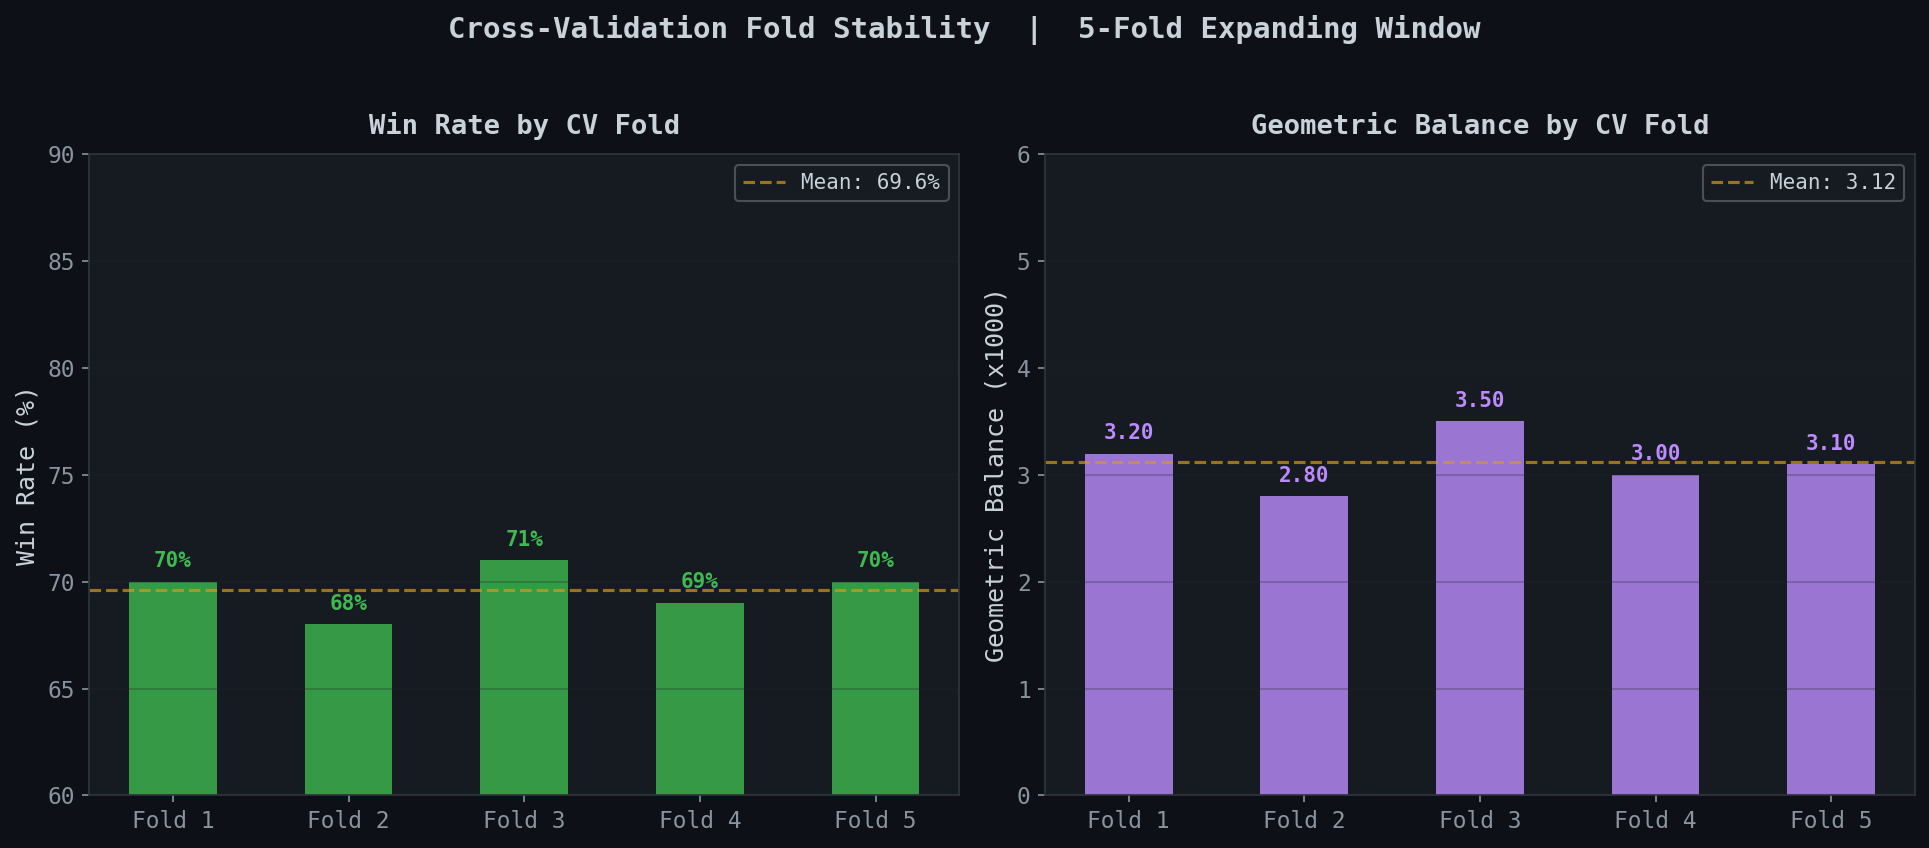
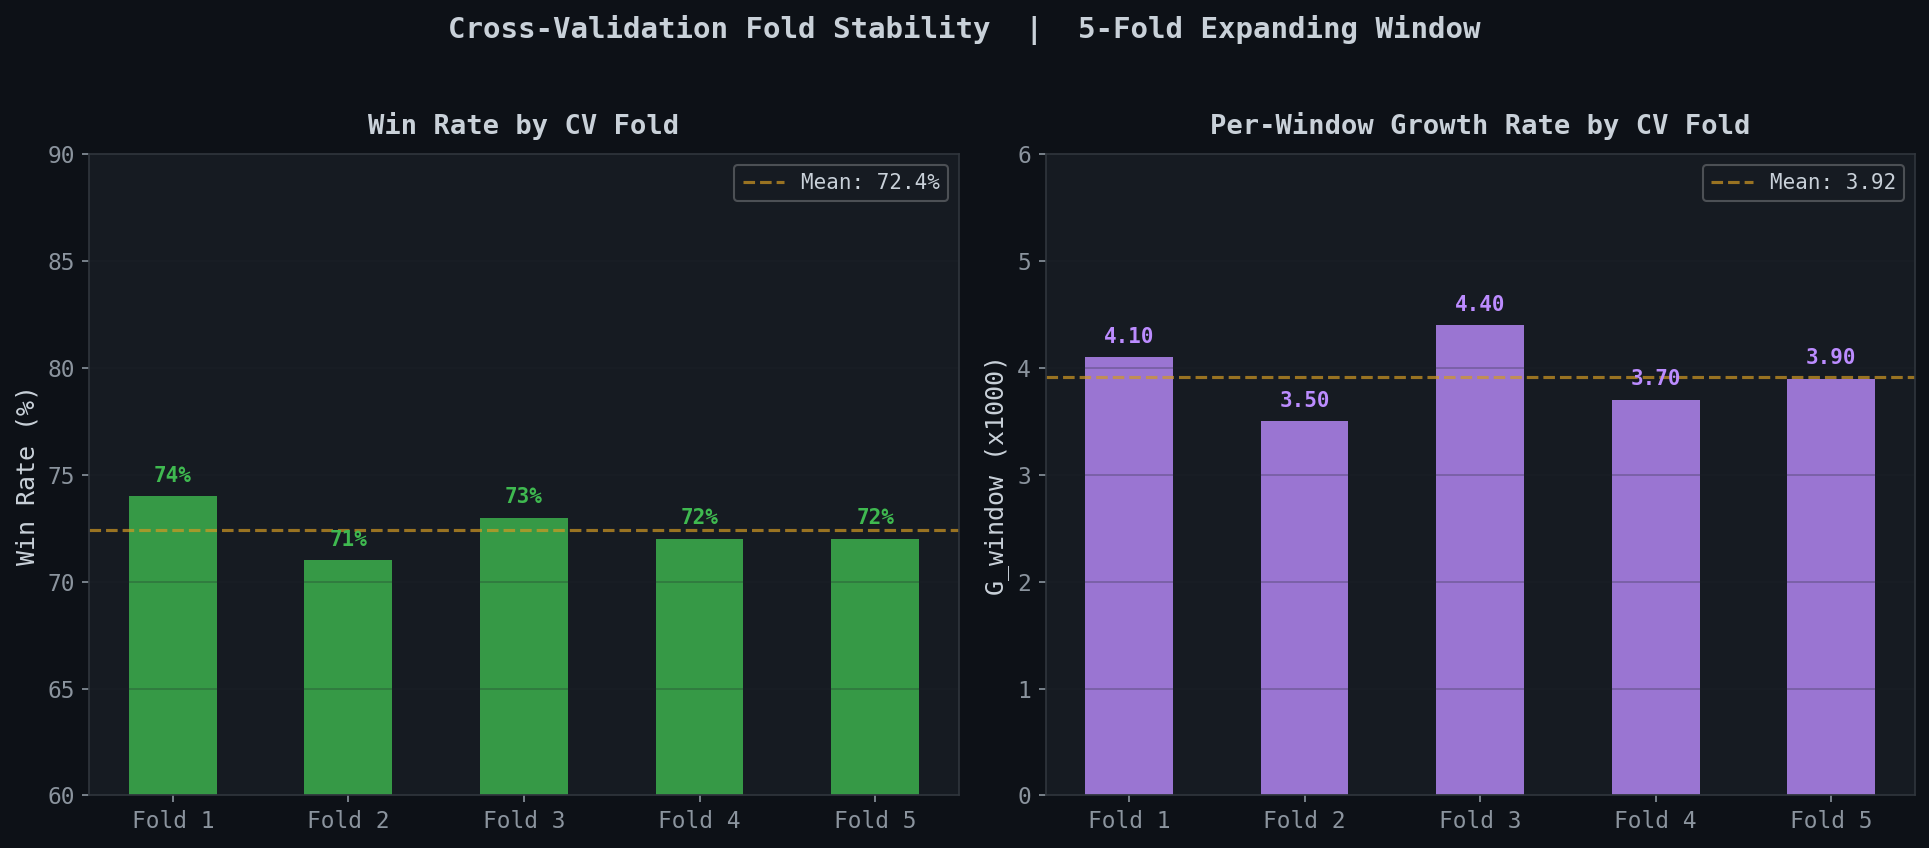
Fix narrative framing, optimization objective naming, and window counts
- Reframe strategy from momentum betting to microstructure signal
  detection (reversions, growing confidence, compression-expansion)
- Rename "Geometric Balance" to per-window growth rate objective:
  G_trade dominated G_window in practice, simplified to G_window only
- Fix ~600 market windows → ~5,000 in FEATURE_ENGINEERING and
  BACKTEST_RESULTS (updates parameter-to-sample ratio from 1:20 to 1:167)
- Rewrite GEOMETRIC_BALANCE.md: honest development path showing why
  geometric mean was abandoned, what production actually uses
- Regenerate all 6 figures with updated axis labels

diff --git a/scripts/generate_plots.py b/scripts/generate_plots.py
@@ -202,7 +202,7 @@ def plot_optimization_convergence():
     ax.axhline(y=0, color='#8b949e', linestyle='--', alpha=0.3, linewidth=0.8)
 
     ax.set_xlabel('Trial Number', fontsize=12)
-    ax.set_ylabel('Robust Score (geometric balance)', fontsize=12)
+    ax.set_ylabel('Robust Score (G_window)', fontsize=12)
     ax.set_title('Optuna Optimization Convergence  |  500 Trials  |  30 Parameters  |  5-Fold CV',
                  fontsize=13, fontweight='bold', pad=12)
     ax.legend(loc='lower right', fontsize=10, framealpha=0.3)
@@ -260,7 +260,7 @@ def plot_unified_score_distribution():
 
 def plot_cv_fold_stability():
     """
-    Bar chart of 5 CV fold metrics: win rate and geometric balance.
+    Bar chart of 5 CV fold metrics: win rate and G_window.
     Shows stable performance across folds.
     """
     folds = ['Fold 1', 'Fold 2', 'Fold 3', 'Fold 4', 'Fold 5']
@@ -286,14 +286,14 @@ def plot_cv_fold_stability():
                  f'{wr*100:.0f}%', ha='center', va='bottom', fontsize=10,
                  color=ACCENT_GREEN, fontweight='bold')
 
-    # Geometric balance
+    # G_window (per-window growth rate)
     bars2 = ax2.bar(folds, [g * 1000 for g in g_metrics], color=ACCENT_PURPLE,
                     alpha=0.8, width=0.5, edgecolor='none')
     ax2.axhline(y=np.mean(g_metrics) * 1000, color=ACCENT_ORANGE,
                 linestyle='--', linewidth=1.5, alpha=0.7,
                 label=f'Mean: {np.mean(g_metrics)*1000:.2f}')
-    ax2.set_ylabel('Geometric Balance (x1000)', fontsize=12)
-    ax2.set_title('Geometric Balance by CV Fold', fontsize=13, fontweight='bold', pad=10)
+    ax2.set_ylabel('G_window (x1000)', fontsize=12)
+    ax2.set_title('Per-Window Growth Rate by CV Fold', fontsize=13, fontweight='bold', pad=10)
     ax2.set_ylim(0, 6)
     ax2.legend(fontsize=10, framealpha=0.3)
     ax2.grid(True, axis='y', alpha=0.3)

diff --git a/docs/GEOMETRIC_BALANCE.md b/docs/GEOMETRIC_BALANCE.md
@@ -1,4 +1,4 @@
-# Geometric Balance Objective: Solving the Degenerate Optimization Problem
+# Optimization Objective: Solving the Degenerate Optimization Problem
 
 ## The Core Problem
 
@@ -28,49 +28,40 @@ objective = mean(returns) / std(returns)
 
 Sharpe ratio seems like it should balance frequency and quality, but in practice it's dominated by the denominator. The optimizer can inflate Sharpe by taking many similar, small, highly correlated trades. It can also game it by avoiding trades during volatile periods (when it should be trading with reduced size, not abstaining).
 
-## The Geometric Balance Solution
+## Development: From Geometric Balance to Per-Window Growth
 
-The geometric balance objective requires BOTH frequency AND quality by construction:
+The initial design computed two complementary metrics and took their geometric mean:
 
 ```
-G_window = total_log_return / n_windows    (per-window growth)
-G_trade  = total_log_return / n_trades     (per-trade growth)
+G_window = total_log_return / n_windows    (per-window growth -- rewards frequency)
+G_trade  = total_log_return / n_trades     (per-trade growth -- rewards quality)
 
 G = sqrt(G_window * G_trade)               (geometric mean)
 ```
 
-### Why These Two Metrics
+The geometric mean has an appealing property: if either component is zero, the result is zero. You can't game it by maximizing one at the expense of the other. In theory, this forces the optimizer to find parameter sets that trade frequently enough AND with sufficient quality.
 
-**G_window** is the total log return divided by the number of available market windows (not just the ones traded). This metric increases when the strategy trades more frequently -- more trades contribute more log return to the numerator while the denominator stays fixed. A strategy that trades 50% of windows has twice the opportunity to accumulate G_window compared to one that trades 25% of windows.
+**In practice, G_trade dominated.** Because n_trades is always <= n_windows, G_trade >= G_window for any positive strategy. The geometric mean was pulled toward G_trade's behavior, and the optimizer would sacrifice frequency to inflate per-trade quality -- a subtler version of Degenerate Solution 2. The geometric balance shifted the degeneracy threshold rather than eliminating it.
 
-**G_trade** is the total log return divided by the number of trades taken. This metric increases when each trade is better quality. A strategy with 80% win rate on high-R entries has higher G_trade than one with 60% win rate on mediocre entries. Taking more trades with low quality dilutes G_trade.
+## The Production Objective: G_window + Robust Scoring
 
-### Why Geometric Mean
+The production objective uses G_window alone:
 
-The geometric mean has a critical property: **if either component is zero, the result is zero.** This makes it impossible to game:
+```
+G_window = total_log_return / n_windows
+```
 
-- All-in on frequency (G_window high, G_trade low): G = sqrt(high * low) = moderate
-- All-in on quality (G_window low, G_trade high): G = sqrt(low * high) = moderate
-- Balanced (both moderate-high): G = sqrt(mod * mod) = moderate-high
+G_window rewards both frequency and quality through a single metric. More trades accumulate more log return in the numerator (frequency). Bad trades reduce the numerator (quality). The denominator is fixed -- total available windows -- so the optimizer can't game it by restricting the sample.
 
-The optimizer cannot make G large without making BOTH components large simultaneously. This is exactly the tradeoff we want: enough trades to reduce variance, each trade good enough to sustain growth.
-
-### Special Cases
-
-When both metrics are positive (the normal case), the standard geometric mean applies. When both are negative (a losing strategy), we preserve the sign: `G = -sqrt(|G_window| * |G_trade|)`. When the signs are mixed (one positive, one negative -- possible but rare), we take the minimum (conservative estimate).
+The degenerate solutions are prevented by the robust scoring layer (below) rather than by balancing two G components. This is simpler and empirically more effective.
 
 ### Connection to Kelly Criterion
 
-The use of log returns is not arbitrary. Under Kelly criterion, the growth rate of a bankroll is maximized by sizing positions to maximize expected log return. By using log returns in both G_window and G_trade, the geometric balance objective is directly optimizing for long-term growth rate.
-
-Specifically:
-- `G_window` is the compounding rate: how fast does the bankroll grow per available opportunity?
-- `G_trade` is the edge quality: how much growth does each trade contribute?
-- `G = sqrt(G_window * G_trade)` is the growth-optimal balance between trading more (capturing more opportunities) and trading better (maintaining edge per trade).
+The use of log returns is not arbitrary. Under Kelly criterion, the growth rate of a bankroll is maximized by sizing positions to maximize expected log return. G_window is directly the compounding rate: how fast does the bankroll grow per available opportunity? This makes the objective Kelly-consistent by construction.
 
 ## Robust Scoring: Worst-Case Stability
 
-The geometric balance G is computed for each cross-validation fold independently. This gives us a vector of fold scores: `[G_1, G_2, G_3, G_4, G_5]`. The robust score combines these:
+G_window is computed for each cross-validation fold independently. This gives us a vector of fold scores: `[G_1, G_2, G_3, G_4, G_5]`. The robust score combines these:
 
 ```
 robust_score = min(fold_Gs) - 0.5 * std(fold_Gs)
@@ -142,14 +133,14 @@ This ensures adequate coverage of the 30-dimensional parameter space. Without su
 
 ## Why This Beats Sharpe as an Objective
 
-| Aspect | Sharpe Ratio | Geometric Balance |
-|--------|-------------|-------------------|
-| Frequency incentive | Indirect (through mean) | Direct (G_window) |
-| Quality incentive | Indirect (through std) | Direct (G_trade) |
-| Can be gamed by | Many correlated trades | Neither component alone |
+| Aspect | Sharpe Ratio | G_window + Robust Scoring |
+|--------|-------------|---------------------------|
+| Frequency incentive | Indirect (through mean) | Direct (G_window numerator) |
+| Quality incentive | Indirect (through std) | Direct (bad trades reduce G_window) |
+| Can be gamed by | Many correlated trades | Neither -- robust scoring penalizes instability |
 | Log return consistency | No (uses arithmetic returns) | Yes (native log returns) |
 | Kelly-consistent | No | Yes |
-| Worst-case focus | No | Yes (min + std penalty) |
-| Handles rare strategies | Poorly (high variance) | Well (G_trade stays high) |
+| Worst-case focus | No | Yes (min + std penalty across folds) |
+| Overfitting resistance | Low | High (worst-fold focus + variance penalty) |
 
-The fundamental advantage is that geometric balance explicitly decomposes the optimization target into two orthogonal components (frequency and quality) and requires both to be high. Sharpe ratio conflates these into a single ratio that can be satisfied by degenerate solutions.
+The fundamental advantage is that G_window with robust scoring optimizes for consistent, growth-rate-maximizing behavior across all market regimes in the training set. Sharpe ratio conflates frequency and quality into a single ratio that can be satisfied by degenerate solutions.

diff --git a/README.md b/README.md
@@ -1,8 +1,8 @@
 # btc-short-term-alpha
 
-Late-window entry strategy for 15-minute BTC binary markets with geometric balance optimization.
+Late-window entry strategy for 15-minute BTC binary markets.
 
-Binary BTC markets on Polymarket resolve every 15 minutes. Price evolves stochastically within each window -- once BTC has moved far enough in one direction, the binary outcome is near-certain but the contract still offers a discount because resolution hasn't occurred yet. A 7-feature linear scoring function identifies entry points in the late window. The optimizer selected a single dominant side -- the signal was asymmetric, not symmetric. Optimized via a novel geometric balance objective that prevents degenerate solutions, validated on 544 walk-forward trades at 72.4% win rate (71.3% on holdout).
+Binary BTC markets on Polymarket resolve every 15 minutes. Within each window, a 7-feature linear scoring function built from moving average microstructure detects patterns -- reversions, growing directional confidence, compression-expansion cycles -- that indicate mispricing between the binary contract and the implied spot outcome. The optimizer found that one side was systematically overvalued, converging on a single dominant side. Optimized via a per-window growth rate objective with robust cross-validation scoring, validated on 544 walk-forward trades at 72.4% win rate (71.3% on holdout).
 
 ## Architecture
 
@@ -58,7 +58,7 @@ Binary BTC markets on Polymarket resolve every 15 minutes. Price evolves stochas
 | CV folds | 5 (expanding window) |
 | Parameters | 30 (15 YES + 15 NO) |
 | Execution | FAK orders, $0.10 slippage assumption |
-| Optimization | Geometric balance objective |
+| Optimization | Per-window growth rate + robust scoring |
 
 ## Figures
 
@@ -68,13 +68,13 @@ Binary BTC markets on Polymarket resolve every 15 minutes. Price evolves stochas
 | ![Optimization Convergence](figures/optimization_convergence.png) | ![Score Distribution](figures/score_distribution.png) |
 | ![CV Fold Stability](figures/cv_fold_stability.png) | ![Entry Timing](figures/entry_timing.png) |
 
-## The Geometric Balance Innovation
+## The Optimization Objective
 
-The core problem in trading strategy optimization is balancing frequency with quality. Naive objectives produce degenerate solutions: maximizing total return leads to trading everything at any quality (low win rate, high drawdown), while maximizing per-trade return leads to trading rarely at extreme quality (too few trades, high variance). Even Sharpe ratio is dominated by trade frequency in the denominator.
+The core problem in trading strategy optimization is avoiding degenerate solutions. Maximizing total return leads to trading everything at any quality. Maximizing per-trade return leads to trading rarely at extreme quality. Even Sharpe ratio can be gamed by many correlated small trades.
 
-The geometric balance objective solves this by computing two complementary metrics and taking their geometric mean. `G_window = total_log_return / n_windows` rewards frequency (more trades means more growth per window), while `G_trade = total_log_return / n_trades` rewards quality (better trades means more growth per trade). The objective `G = sqrt(G_window * G_trade)` has a key property: if either component is zero, G is zero. You cannot game it by maximizing one at the expense of the other.
+The initial design used a geometric mean of per-window and per-trade growth rates: `G = sqrt(G_window * G_trade)`. In practice, G_trade dominated the objective -- the optimizer would sacrifice frequency to inflate per-trade quality, producing a subtler version of the same degeneracy. The production objective uses `G_window = total_log_return / n_windows` directly, which rewards both frequency (more trades accumulate more return) and quality (bad trades reduce the numerator). The degenerate solutions are prevented by the robust scoring layer rather than by balancing two G components.
 
-Robust scoring adds cross-validation stability on top: `robust_score = min(fold_Gs) - 0.5 * std(fold_Gs)`. This focuses the optimizer on worst-case fold performance and penalizes parameter sets that are unstable across folds. A parameter set with consistent but moderate performance across all 5 folds scores higher than one with high average but a single failing fold. The connection to Kelly criterion is direct -- log returns are the natural unit for growth rate optimization, and the geometric balance ensures the optimizer finds the growth-maximizing frequency-quality tradeoff.
+Robust scoring wraps the per-fold G_window values: `robust_score = min(fold_Gs) - 0.5 * std(fold_Gs)`. This focuses the optimizer on worst-case fold performance and penalizes parameter sets that are unstable across folds. A parameter set with consistent but moderate performance across all 5 folds scores higher than one with high average but a single failing fold. The connection to Kelly criterion is direct -- log returns are the natural unit for growth rate optimization.
 
 ## The Optimizer Found Asymmetry
 
@@ -86,7 +86,7 @@ This is an important empirical result, not a design choice. The strategy framewo
 
 - **Feature engineering from market microstructure** -- 5 continuous MA features extracted from binary market price series, normalized as percentage deviations for cross-market comparability
 - **Linear factor model design** -- 7-feature scoring function with interpretable weights, intentionally avoiding interaction terms to prevent overfitting on a 30-parameter space
-- **Novel optimization objective** -- Geometric balance (G = sqrt(G_window * G_trade)) that prevents degenerate frequency/quality tradeoffs, with robust scoring for worst-case fold stability
+- **Novel optimization objective** -- Per-window growth rate with robust scoring (min - 0.5*std across folds) that prevents degenerate frequency/quality tradeoffs
 - **Walk-forward cross-validation** -- 5-fold expanding windows with 20% holdout, 1,500 startup trials for adequate parameter space exploration before TPE kicks in
 - **Position sizing theory** -- Kelly-consistent log returns, score-based dynamic sizing, three-layer multiplicative system (z-score, slope, R-ratio) simplified to single-layer for production
 - **Overfitting prevention** -- Parameter count management (30 params with 1,500 startup), robust scoring (min - 0.5*std across folds), expanding-window CV preventing look-ahead bias
@@ -118,7 +118,7 @@ scripts/
 |----------|-------------|
 | [STRATEGY.md](docs/STRATEGY.md) | Lock-in thesis and entry logic |
 | [FEATURE_ENGINEERING.md](docs/FEATURE_ENGINEERING.md) | The 5 MA features |
-| [GEOMETRIC_BALANCE.md](docs/GEOMETRIC_BALANCE.md) | Novel optimization objective |
+| [GEOMETRIC_BALANCE.md](docs/GEOMETRIC_BALANCE.md) | Optimization objective design and development |
 | [BACKTEST_RESULTS.md](docs/BACKTEST_RESULTS.md) | Walk-forward results |
 | [POSITION_SIZING.md](docs/POSITION_SIZING.md) | Kelly and score-based sizing |
 

diff --git a/docs/STRATEGY.md b/docs/STRATEGY.md
@@ -4,9 +4,9 @@
 
 Binary BTC markets on Polymarket resolve every 15 minutes with a simple question: did BTC close above or below a specific price? Within each 15-minute window, the BTC spot price evolves stochastically -- it moves up and down with some volatility. The binary contract price reflects the market's real-time estimate of the probability that the resolution condition will be met.
 
-The key insight is temporal: as the window progresses and BTC has already moved significantly in one direction, the outcome becomes increasingly certain. If BTC needs to close above $100,000 and it's currently at $100,150 with 2 minutes left, the YES probability is very high. But the contract might still trade at $0.92 rather than $1.00 because resolution hasn't happened yet -- there's still some time remaining, and the market prices in the possibility of a reversal.
+The key insight is that binary contract prices reflect market microstructure patterns that are exploitable. Moving average features capture reversions (price dips against a prevailing direction and recovers), growing directional confidence (one side building momentum with characteristic MA signatures), and compression-expansion cycles (volatility contracting before a directional move). These patterns indicate mispricing between the binary contract and the implied spot outcome.
 
-This creates a systematic discount: the contract lags the spot reality. The "lock-in" strategy enters during this late-window phase, buying contracts at a discount to their expected resolution value.
+The "lock-in" strategy enters during the late-window phase when microstructure signals indicate a high-probability resolution direction. One side was found to be systematically overvalued in the data -- the optimizer converged on a single dominant side rather than trading both.
 
 ## Why Late-Window Works
 

diff --git a/docs/BACKTEST_RESULTS.md b/docs/BACKTEST_RESULTS.md
@@ -80,11 +80,10 @@ Using Kelly-consistent log returns:
 ```
 Total log return: sum of 544 individual trade log returns
 Per-window growth (G_window): total_log_return / n_total_windows
-Per-trade growth (G_trade): total_log_return / 544
-Holdout G: 0.000374 per window
+Holdout G_window: 0.000374 per window
 ```
 
-The holdout G of 0.000374 represents the per-window growth rate on truly out-of-sample data. This is the compounding rate that drives long-term bankroll growth under the Kelly framework.
+The holdout G_window of 0.000374 represents the per-window growth rate on truly out-of-sample data. This is the compounding rate that drives long-term bankroll growth under the Kelly framework. G_window is the production objective -- it rewards both trade frequency (more trades contribute more log return to the numerator) and trade quality (bad trades reduce the numerator).
 
 ## Honest Limitations
 
@@ -108,7 +107,7 @@ The backtest assumes:
 
 ### Parameter Count Concern
 
-30 parameters on ~600 market windows is a parameter-to-sample ratio of 1:20. While the robust scoring and expanding-window CV mitigate overfitting risk, this ratio is on the aggressive side. The linear model (no interaction terms) and the geometric balance objective (which penalizes degenerate solutions) provide additional regularization, but the risk of some overfitting remains.
+30 parameters on ~5,000 market windows is a parameter-to-sample ratio of ~1:167. The robust scoring (min - 0.5*std across folds) and expanding-window CV mitigate overfitting risk. The linear model (no interaction terms) provides additional regularization. The parameter-to-sample ratio is comfortable, but the risk of regime-specific overfitting remains -- the strategy may be tuned to microstructure conditions that evolve over time.
 
 ### Market Regime Dependence
 

diff --git a/docs/FEATURE_ENGINEERING.md b/docs/FEATURE_ENGINEERING.md
@@ -86,7 +86,7 @@ No interaction terms, no nonlinearities, no feature crosses.
 
 This is a deliberate constraint, not a limitation:
 
-1. **Parameter efficiency**: 7 weights per side vs. 28+ for a model with pairwise interactions. With only ~600 market windows for training, the simpler model is less likely to overfit.
+1. **Parameter efficiency**: 7 weights per side vs. 28+ for a model with pairwise interactions. With ~5,000 market windows for training, the simpler model is less likely to overfit.
 
 2. **Interpretability**: Each weight has a direct meaning. `w_slope_long = 0.28` means slope_long contributes 0.28 units of score per unit of feature value. You can reason about why the optimizer chose each weight.
 
